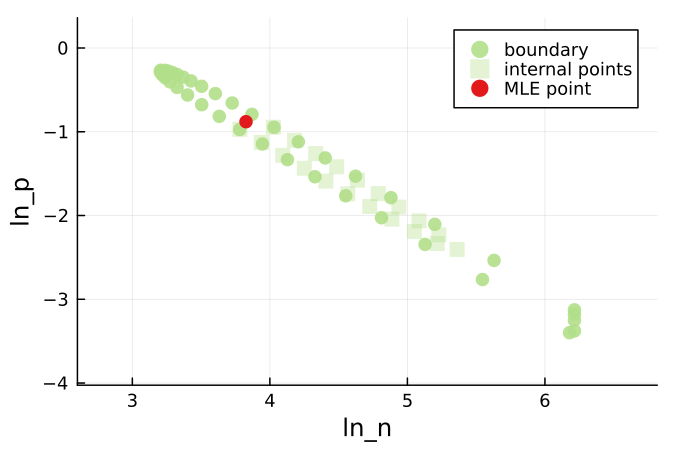
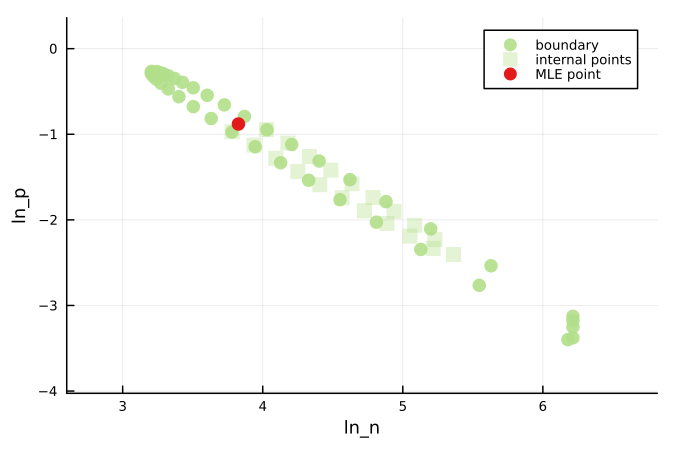
Example updates

diff --git a/docs/src/examples/lotka-volterra.md b/docs/src/examples/lotka-volterra.md
@@ -69,7 +69,7 @@ end
 θ_true=[α_true, β_true, x0_true, y0_true]
 
 t=LinRange(0,7,15)
-y_true = ODEmodel(θ_true, t)
+y_true = hcat(ODEmodel(t, θ_true)...)
 y_obs = [0.99 0.22; 1.02 0.26; 1.28 0.38; 1.92 0.36; 2.03 0.80; 1.41 1.78;
          1.54 2.04; 0.67 1.63; 0.18 1.45; 0.44 1.13; 0.74 0.94; 0.37 0.86;
          0.01 0.16; 0.65 0.52; 0.54 0.32]
@@ -135,7 +135,7 @@ To evaluate the bivariate boundaries for all six bivariate parameter combination
 ```julia
 opt_settings = create_OptimizationSettings(solve_kwargs=(maxtime=5, xtol_rel=1e-12))
 bivariate_confidenceprofiles!(model, 30, 
-    method=IterativeBoundaryMethod(10, 5, 5, 0.15, 1.0, use_ellipse=true), 
+    method=IterativeBoundaryMethod(20, 5, 5, 0.15, 1.0, use_ellipse=true), 
     optimizationsettings=opt_settings)
 ```
 
@@ -144,7 +144,7 @@ Similarly, if we wish to evaluate simultaneous 95% bivariate profiles we set the
 ```julia
 opt_settings = create_OptimizationSettings(solve_kwargs=(maxtime=5, xtol_rel=1e-12))
 bivariate_confidenceprofiles!(model, 30, 
-    method=IterativeBoundaryMethod(10, 5, 5, 0.15, 1.0, use_ellipse=true), 
+    method=IterativeBoundaryMethod(20, 5, 5, 0.15, 1.0, use_ellipse=true), 
     dof=model.core.num_pars,
     optimizationsettings=opt_settings)
 ```
@@ -280,7 +280,7 @@ opt_settings = create_OptimizationSettings(solve_kwargs=(maxtime=5, xtol_rel=1e-
 biv_coverage_df = check_bivariate_parameter_coverage(data_generator,
     training_gen_args, model, 1000, 50, θ_true, 
     collect(combinations(1:model.core.num_pars, 2)),
-    method = IterativeBoundaryMethod(10, 5, 5, 0.15, 0.1, use_ellipse=true), 
+    method = IterativeBoundaryMethod(20, 5, 5, 0.15, 0.1, use_ellipse=true), 
     optimizationsettings=opt_settings)
 ```
 
@@ -367,6 +367,6 @@ biv_reference_coverage_df = check_bivariate_prediction_realisations_coverage(dat
     reference_set_generator, training_gen_args, testing_gen_args, t_pred, model, 1000, 20, θ_true, 
     collect(combinations(1:model.core.num_pars, 2)),
     dof=model.core.num_pars,
-    method=IterativeBoundaryMethod(10, 5, 5, 0.15, 0.1, use_ellipse=true),
+    method=IterativeBoundaryMethod(20, 5, 5, 0.15, 0.1, use_ellipse=true),
     optimizationsettings=opt_settings)
 ```

diff --git a/docs/src/examples/two-species_logistic.md b/docs/src/examples/two-species_logistic.md
@@ -15,7 +15,7 @@ where ``\theta^M = (\lambda_1, \lambda_2, K, \delta, C_1(0), C_2(0))``, ``\theta
 
 This model uses real data, so no 'true' parameter values exist. Instead, the MLE values of parameters are used for coverage simulations ``\hat{\theta} =(0.00293, 0.00315, 0.00164, 78.8, 0.289, 0.0293, 1.83)``. The corresponding lower and upper parameter bounds are ``a = (0.0001, 0.0001, 0, 60, 0.01, 0.001, 0.1)`` and ``b = (0.01, 0.01, 0.01, 90, 1, 1, 3)``; the lower bounds for all the parameters apart from ``\delta`` were zero [simpsonprofile2023](@cite) but were increased slightly to increase stability. Observation times are ``t_{1:I} = (0, 769, 1140, 1488, 1876, 2233, 2602, 2889, 3213, 3621, 4028)``. Smaller nuisance parameter bounds are used for univariate profiles, although they are wider than those used in [simpsonprofile2023](@cite): ``a_{\text{nuisance},j} =\max(a_j,\, \hat{\theta}_j\div2.5 ), \, j \in 1,2,...,7`` and ``b_{\text{nuisance},j} =\min(b_j,\, \hat{\theta}_j\times2.5 ), \, j \in 1,2,...,7``. The original implementation can be found at [https://github.com/ProfMJSimpson/profile_predictions](https://github.com/ProfMJSimpson/profile_predictions).
 
-Real observations, the MLE model trajectory and the MLE 95% population reference set under this parameterisation can be seen in the figure below:
+Real observations, the MLE model trajectory and the MLE 95% population reference set under this parameterisation can be seen in the figure below (site 2 data is used):
 
 ![](../assets/figures/two-species_logistic/two-species_gaussian_example.png)
 

diff --git a/docs/src/examples/logistic.md b/docs/src/examples/logistic.md
@@ -184,13 +184,6 @@ using Plots, Plots.PlotMeasures; gr()
 Plots.reset_defaults(); Plots.scalefontsizes(0.75)
 ```
 
-
-plts = plot_univariate_profiles_comparison(model, 0.1, 0.1, confidence_levels=[0.95], dofs=[1])
-plt = plot(plts..., layout=(1,3),
-    legend=:outertop, title="", dpi=150, size=(550,300), margin=1mm)
-display(plt)
-savefig(plt, joinpath("docs", "src", "assets", "figures", "logistic", "logistic_univariate_plots.png"))
-
 Univariate and bivariate profiles can either be visualised individually or in comparison to profiles at the same confidence level and degrees of freedom. 
 
 Here we compare the univariate profiles formed at a 95% confidence level and 1 degree of freedom. The first two arguments scale the limits of the x and y axis, respectively, away from the found confidence interval at the specified threshold.
@@ -207,9 +200,10 @@ display(plt)
 
 Similarly, here we compare the bivariate profiles formed at a 95% confidence level and 2 degrees of freedom.
 ```julia
-plts = plot_bivariate_profiles_comparison(model, confidence_level=0.95, dof=2)
+plts = plot_bivariate_profiles_comparison(model, 0.1, 0.1, confidence_levels=[0.95], dofs=[2])
 
-plt = plot(plts..., layout=(1,3))
+plt = plot(plts..., layout=(1,3),
+    legend=:outertop, title="", dpi=150, size=(550,300), margin=1mm)
 display(plt)
 ```
 

diff --git a/docs/src/examples/binomial_normal_approximation.md b/docs/src/examples/binomial_normal_approximation.md
@@ -71,6 +71,7 @@ We can visualise the progress of the [`IterativeBoundaryMethod`](@ref) using [`p
 
 ```julia
 using Plots; gr()
+Plots.reset_defaults(); Plots.scalefontsizes(0.75)
 
 format = (size=(450, 300), dpi=150, title="",
     legend_position=:topright, palette=:Paired)
